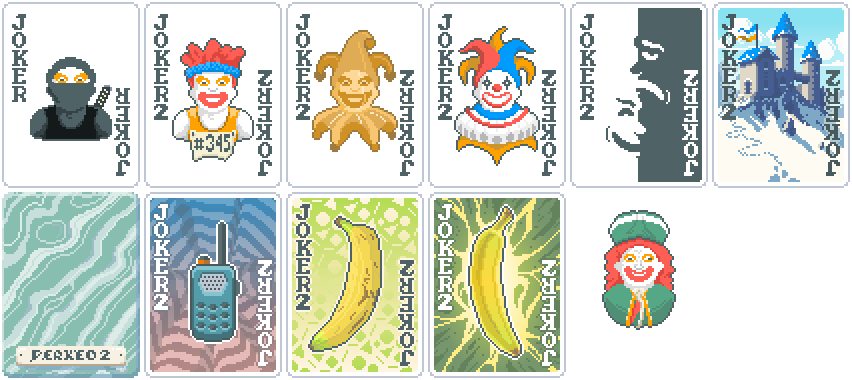
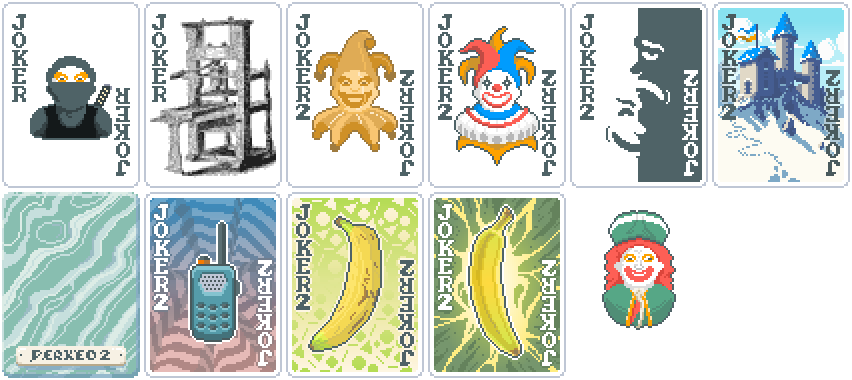
New joker implemented, Template.

diff --git a/README.md b/README.md
@@ -5,4 +5,6 @@ Credits:
 
 Programming: OmnipotentEntity
 
-Ideas: None Yet
+Ideas:
+ - Mathman2028: Template
+ - OmnipotentEntity: Ninja
